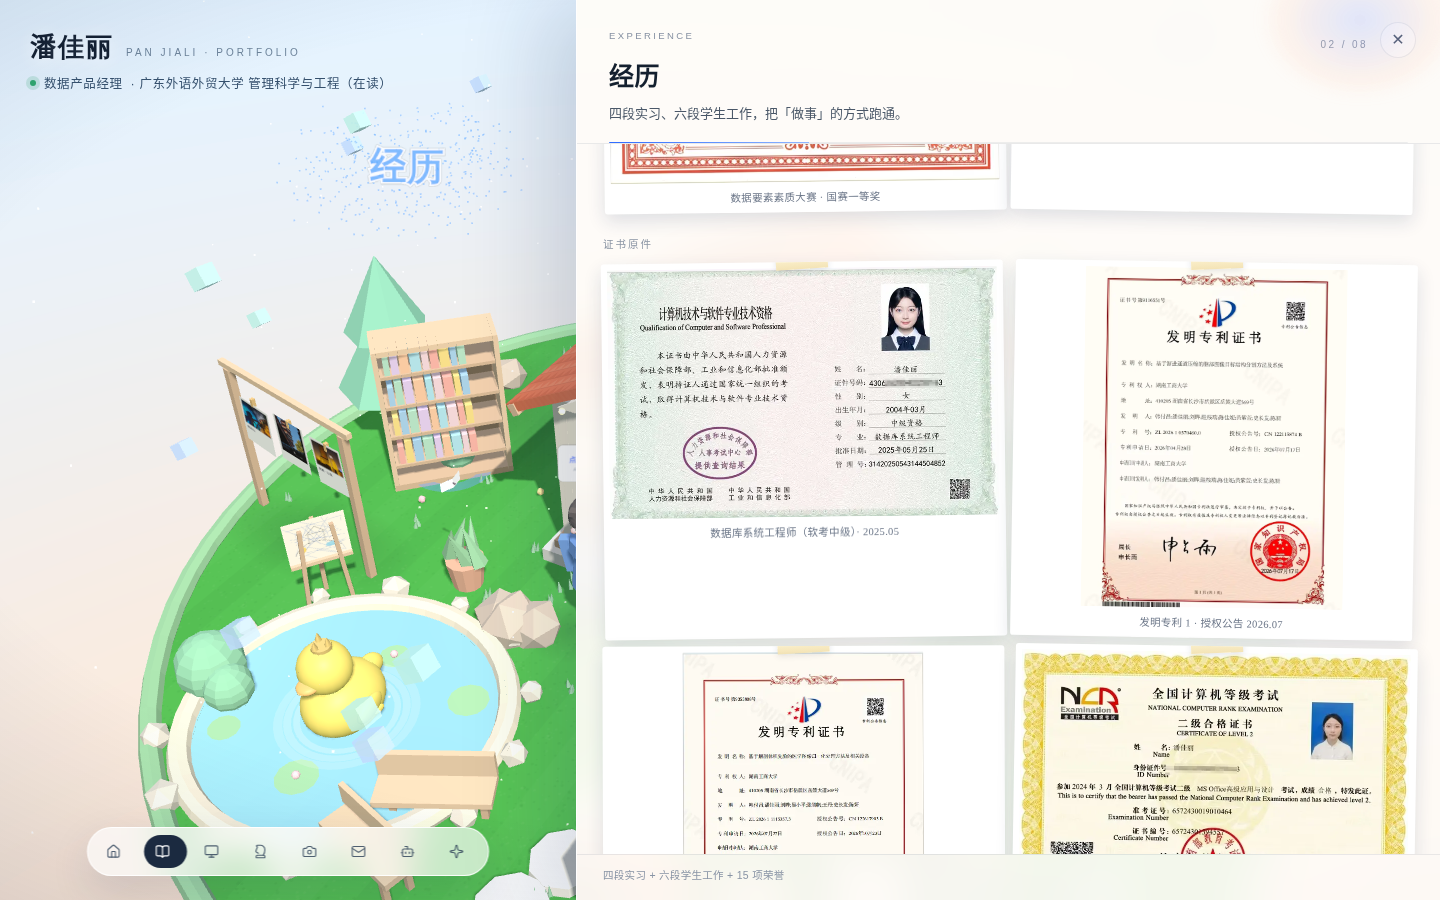
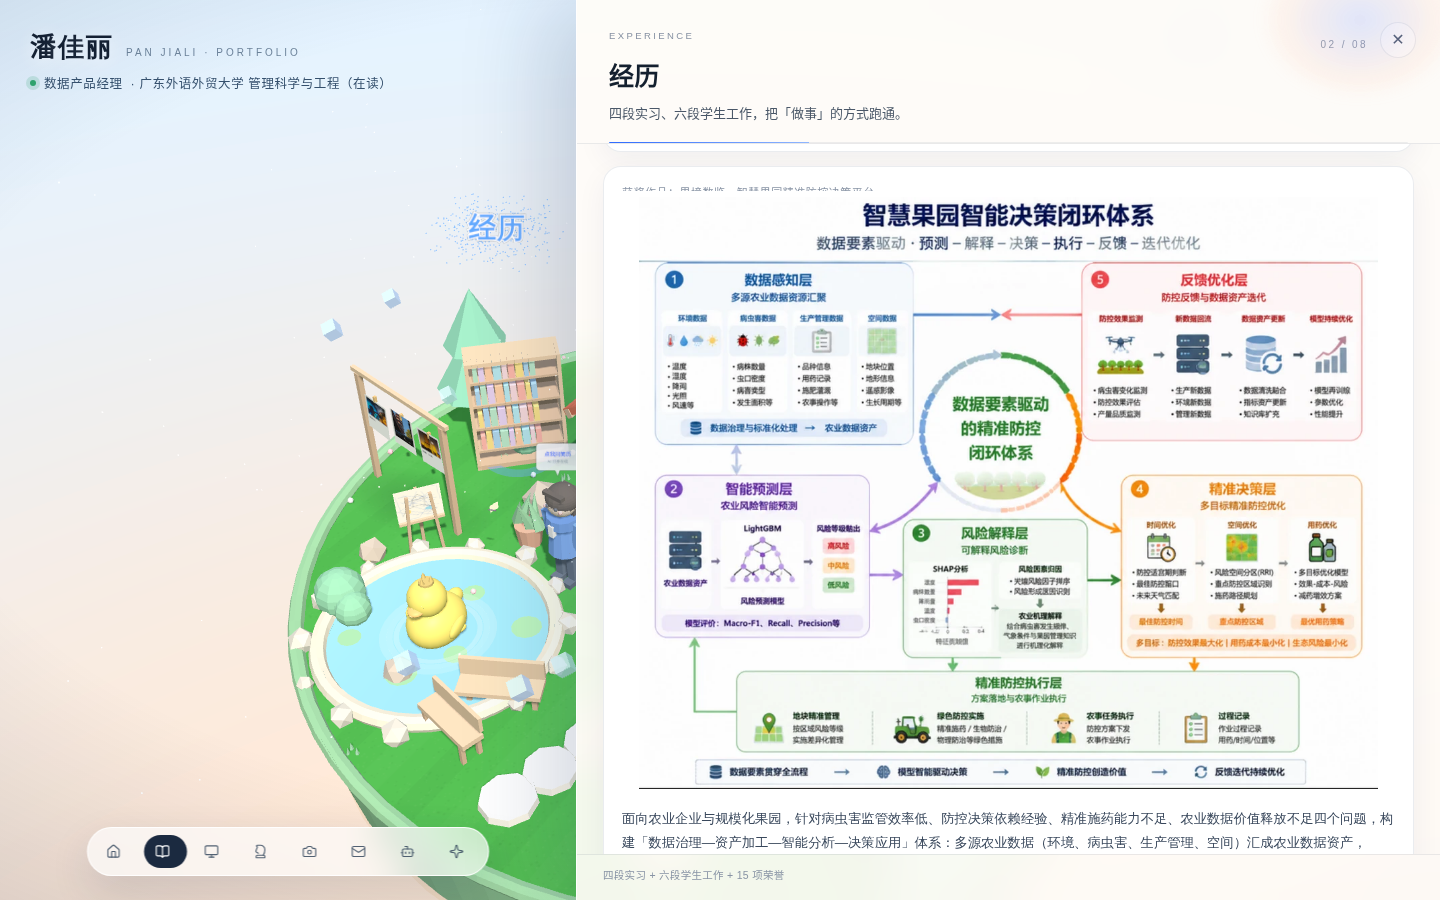
v2.9: remove trend slide & slogans, move competition content under honors

diff --git a/index.html b/index.html
@@ -445,6 +445,9 @@ body.clay-on #brandName{letter-spacing:.06em}
   border:1px solid rgba(120,190,255,.35);border-radius:999px;padding:8px 16px;pointer-events:none;backdrop-filter:blur(6px)}
 .pix-toast.on{opacity:1;transform:translate(-50%,0)}
 
+
+.honor-extra{grid-column:1 / -1}
+.honor-extra .cover{margin-top:4px}
 </style>
 </head>
 <body>
@@ -561,8 +564,7 @@ const CFG = {
         "AI 公开课 3.0：协助从 0 到 1 搭建，含课程内容设计、课后测试、埋点机制与数据看板",
         "Data First 订阅号：参与公司级订阅号建设，推动数据文化在内部落地",
         "Agent 运维：创建 Agent 定时任务、做提示词工程，协助数据入湖与自动化脚本测试"
-      ],
-      takeaway: "我想做的，是让数据和 AI 变成有人用的产品。"
+      ]
     },
     {
       org: "明日互联网", role: "数据分析师", time: "2025.11 — 2026.01",
@@ -570,8 +572,7 @@ const CFG = {
         "用 Excel / SQL 整合资金流水，做一致性校验",
         "构建用户层级模型，设计异常监控报表",
         "输出调查名单与分层运营建议，把结论交回业务"
-      ],
-      takeaway: "我能做分析，但不想只交结论——更愿意把业务问题翻译成指标，把指标做成工具，把工具推进流程。"
+      ]
     },
     {
       org: "安克创新", role: "数据产品运营", time: "2025.08 — 2025.09",
@@ -579,8 +580,7 @@ const CFG = {
         "课程产品：参与内部数据分析认证 MOOC 课程设计，支持用户学习路径分析与课程优化",
         "BI 看板：搭建仪表盘，设计进群转化率、报名完成率、活动参与率等核心指标，实现自动更新",
         "内容运营：负责「数据茶歇」官号文案、排版与推文，复盘 MOOC 活动数据并更新 SOP"
-      ],
-      takeaway: "看板做完，任务才到一半。"
+      ]
     },
     {
       org: "长沙聚簇云", role: "数据行政", time: "2025.02 — 2025.05",
@@ -588,8 +588,7 @@ const CFG = {
         "汇总 Timesheet、Task、LiveChat 多源数据，完成清洗与异常检测",
         "输出考勤、工时、任务完成率报表与操作文档",
         "梳理「采集—清洗—报表」全流程，沉淀标准化操作文档"
-      ],
-      takeaway: "干净，不等于有用。"
+      ]
     }
   ],
 
@@ -607,12 +606,26 @@ const CFG = {
   // —— 荣誉 ——
   honors: [
     { t: "国家发明专利 2 项", d: "脑部图像分割方向 · 导师一作、本人二作 · 已授权下证", lv: "国家级" },
-    { t: "第三届全国大学生数据要素素质大赛 国家一等奖", d: "湖南赛区 · 十佳作品（2026）", lv: "国家级" },
+    { t: "第三届全国大学生数据要素素质大赛 国家一等奖", d: "湖南赛区 · 十佳作品（2026）", lv: "国家级",
+      extra: {
+        sub: "获奖作品：果境数鉴 · 智慧果园精准防控决策平台",
+        cover: IMG.orchard,
+        desc: "面向农业企业与规模化果园，针对病虫害监管效率低、防控决策依赖经验、精准施药能力不足、农业数据价值释放不足四个问题，构建「数据治理—资产加工—智能分析—决策应用」体系：多源农业数据（环境、病虫害、生产管理、空间）汇成农业数据资产，LightGBM 输出高/中/低风险等级，SHAP 与农机机理把模型结论翻译成可解释的风险诊断，再落到分区域、分时点、分用药量的精准防控，效果监测回流数据资产形成闭环。",
+        bullets: ["数据治理 → 农业数据资产：四类多源数据统一清洗与标准化", "智能预测：LightGBM 风险分级，Macro-F1 / Recall / Precision 评估", "风险解释：SHAP 归因 + 农机机理，把黑箱变成可解释诊断", "精准决策：分区域（RRI）、分时点、分用药量的多目标优化"],
+        tags: ["数据要素", "LightGBM + SHAP", "可解释决策", "闭环迭代"]
+      } },
     { t: "湖南省优秀毕业生", d: "省级荣誉", lv: "省级" },
     { t: "湖南省「2023 年度优秀河小青志愿者」", d: "省级荣誉", lv: "省级" },
     { t: "「挑战杯」创业计划竞赛 校级银奖", d: "2025", lv: "校级" },
     { t: "「学创杯」创业综合模拟赛项 省级三等奖", d: "ERP · 2023", lv: "省级" },
-    { t: "「睿抗 RAICOM」智慧零售竞赛 湖南赛区三等奖", d: "2023", lv: "省级" },
+    { t: "「睿抗 RAICOM」智慧零售竞赛 湖南赛区三等奖", d: "2023", lv: "省级",
+      extra: {
+        sub: "获奖项目：智慧零售场景的机器人操作与任务调试",
+        cover: IMG.robot,
+        desc: "在比赛现场做机械臂与移动底盘的联调：按任务要求完成抓取、搬运与路径执行，负责操作与现场排障。下面这张是当时在赛位上调 BR280 底盘与机械臂的实拍。",
+        bullets: [],
+        tags: ["机器人实训", "现场调试"]
+      } },
     { t: "校级奖学金 · 三好学生（连续四年）", d: "2022 — 2024", lv: "校级" },
     { t: "数学建模大赛 校二等奖 · 三下乡课题 二等奖", d: "校级", lv: "校级" },
     { t: "优秀学生干部 / 优秀学生助辅 / 优秀团员", d: "校级", lv: "校级" },
@@ -622,17 +635,9 @@ const CFG = {
   // —— 作品 ——
   works: [
     {
-      title: "果境数鉴 · 智慧果园精准防控决策平台",
-      cover: IMG.orchard,
-      fit: "contain",
-      sub: "第三届全国大学生数据要素素质大赛 · 国家一等奖（十佳作品）",
-      desc: "面向农业企业与规模化果园，解决病虫害监管效率低、防控依赖经验、精准施药不足、农业数据价值难释放四个问题。以数据要素为主线，串起「数据治理—资产加工—智能分析—决策应用」：多源农业数据汇成农业数据资产，LightGBM 做风险概率预测，SHAP 与农机机理把黑箱结论翻译成可解释诊断，最后落到分区域、分时点、分用药量的精准防控，并用效果监测回流数据资产，形成闭环。",
-      tags: ["数据要素", "LightGBM + SHAP", "可解释决策", "闭环迭代"]
-    },
-    {
       title: "AI 公开课 3.0",
       sub: "安克创新 · 从 0 到 1 搭建",
-      desc: "协助搭建公司级 AI 公开课：课程内容设计、课后测试、埋点机制与数据看板。数据、产品、AI 第一次在同一个项目里同时出现。",
+      desc: "协助搭建公司级 AI 公开课：课程内容设计、课后测试、埋点机制与数据看板，从需求到看板全部跑通。",
       tags: ["产品设计", "埋点机制", "数据看板"]
     },
     {
@@ -666,13 +671,6 @@ const CFG = {
       desc: "导师一作、本人二作，两项国家发明专利已授权下证，把算法研究落成可保护的技术方案。",
       tags: ["发明专利", "算法"]
     },
-    {
-      title: "数据要素素质大赛 · 国家一等奖",
-      cover: IMG.cert,
-      sub: "第三届全国大学生数据要素素质大赛",
-      desc: "湖南赛区国家一等奖（十佳作品），以真实数据要素场景完成从分析到方案的完整闭环。",
-      tags: ["国家级奖项", "十佳作品"]
-    }
   ],
 
   skills: ["SQL（多表关联 / 复杂查询）", "Python（pandas / numpy）", "Excel（VLOOKUP / 透视表）", "SPSS / R", "Dataphin", "ABI", "PRD & 原型", "埋点与指标体系", "Agent / 提示词工程"],
@@ -2105,7 +2103,6 @@ const RENDER = {
             <h3>${i.org} · ${i.role}</h3>
             <div class="meta">${i.time}</div>
             <ul>${i.points.map(p => `<li>${p}</li>`).join('')}</ul>
-            <div class="quote">${i.takeaway}</div>
           </div>`).join('')}
       </div>
       <div class="tabpane g2" id="tab-school">
@@ -2136,7 +2133,14 @@ const RENDER = {
           <div class="card">
             <h3>${h.t}</h3>
             <div class="meta">${h.lv} ｜ ${h.d}</div>
-          </div>`).join('')}
+          </div>
+          ${h.extra ? `<div class="card wide honor-extra">
+            <div class="meta" style="margin-bottom:6px">${h.extra.sub}</div>
+            <div class="cover tall"><img class="zoom" src="${h.extra.cover}" alt="果境数鉴闭环体系" loading="lazy"></div>
+            <p style="margin-top:10px">${h.extra.desc}</p>
+            <ul>${h.extra.bullets.map(x => `<li>${x}</li>`).join('')}</ul>
+            <div class="tagline">${h.extra.tags.map(t => `<span class="chip">${t}</span>`).join('')}</div>
+          </div>` : ''}`).join('')}
         </div>
         <div class="dashed">个人累计获奖 15 项余，其中省级及以上荣誉 7 项。</div>
       </div>
@@ -2168,9 +2172,7 @@ const RENDER = {
       <div class="sec-title">物料 / 过程</div>
       <div class="strip">
         <figure><img class="zoom" src="${IMG.course1}" alt="数据分析课程封面" loading="lazy"><figcaption>数据分析课程封面 · 从 0 到 1</figcaption></figure>
-        <figure><img class="zoom" src="${IMG.robot}" alt="机器人实训" loading="lazy"><figcaption>RAICOM 智慧零售赛 · 实训现场</figcaption></figure>
         <figure><img class="zoom" src="${IMG.honors}" alt="荣誉墙" loading="lazy"><figcaption>15+ 项荣誉证书一览</figcaption></figure>
-        <figure><img class="zoom" src="${IMG.trend}" alt="产业趋势" loading="lazy"><figcaption>产业趋势：数字化 → 智能化</figcaption></figure>
       </div>
       <div class="sec-title">Skills</div>
       <div class="chips">${CFG.skills.map(s => `<span class="chip blue">${s}</span>`).join('')}</div>

diff --git a/README.md b/README.md
@@ -112,6 +112,12 @@ python3 -m http.server 8000
 - **19 黏土定格**：右上角「黏土」按钮，开启后鸭子、邮筒、象棋、画架、电视等小物件按每秒 12 帧做手捏式微抖，画面饱和度略提，像定格动画。
 - **两个彩蛋页更像「她」的**：手绘页在上色后浮现手写标注（GPA 3.506/4、国赛一等 ×1、发明专利 ×2、4 段实习）与签名；像素页三盏灯改成「实习 / 国赛 / 专利」，点亮弹提示，通关写「潘佳丽 · 数据地图已点亮」，鸭子戴小皇冠。
 
+## 3.12 v2.9：内容口径收紧
+
+- **删掉「产业趋势：数字化 → 智能化」配图**，作品页不再放 PPT 的趋势页。
+- **删掉所有口号式句子**（各段实习末尾的 takeaway、关于页「如果只能记一句话」、AI 分身里的自我营销口吻），只留事实性描述。
+- **竞赛内容从作品页移到荣誉页**：作品页 6 张卡（AI 公开课、MOOC×BI、资金流水、淘宝漏斗、3D-Unet、专利）不再出现竞赛项目；「数据要素素质大赛 国家一等奖」卡下补「果境数鉴」闭环体系图、项目说明、四条实施要点与标签；「睿抗 RAICOM 三等奖」卡下补比赛现场的机械臂操作照。
+
 ## 4. 版本回滚
 
 线上是 git 管理的，每次改动都是一个 commit，可以随时退回：
